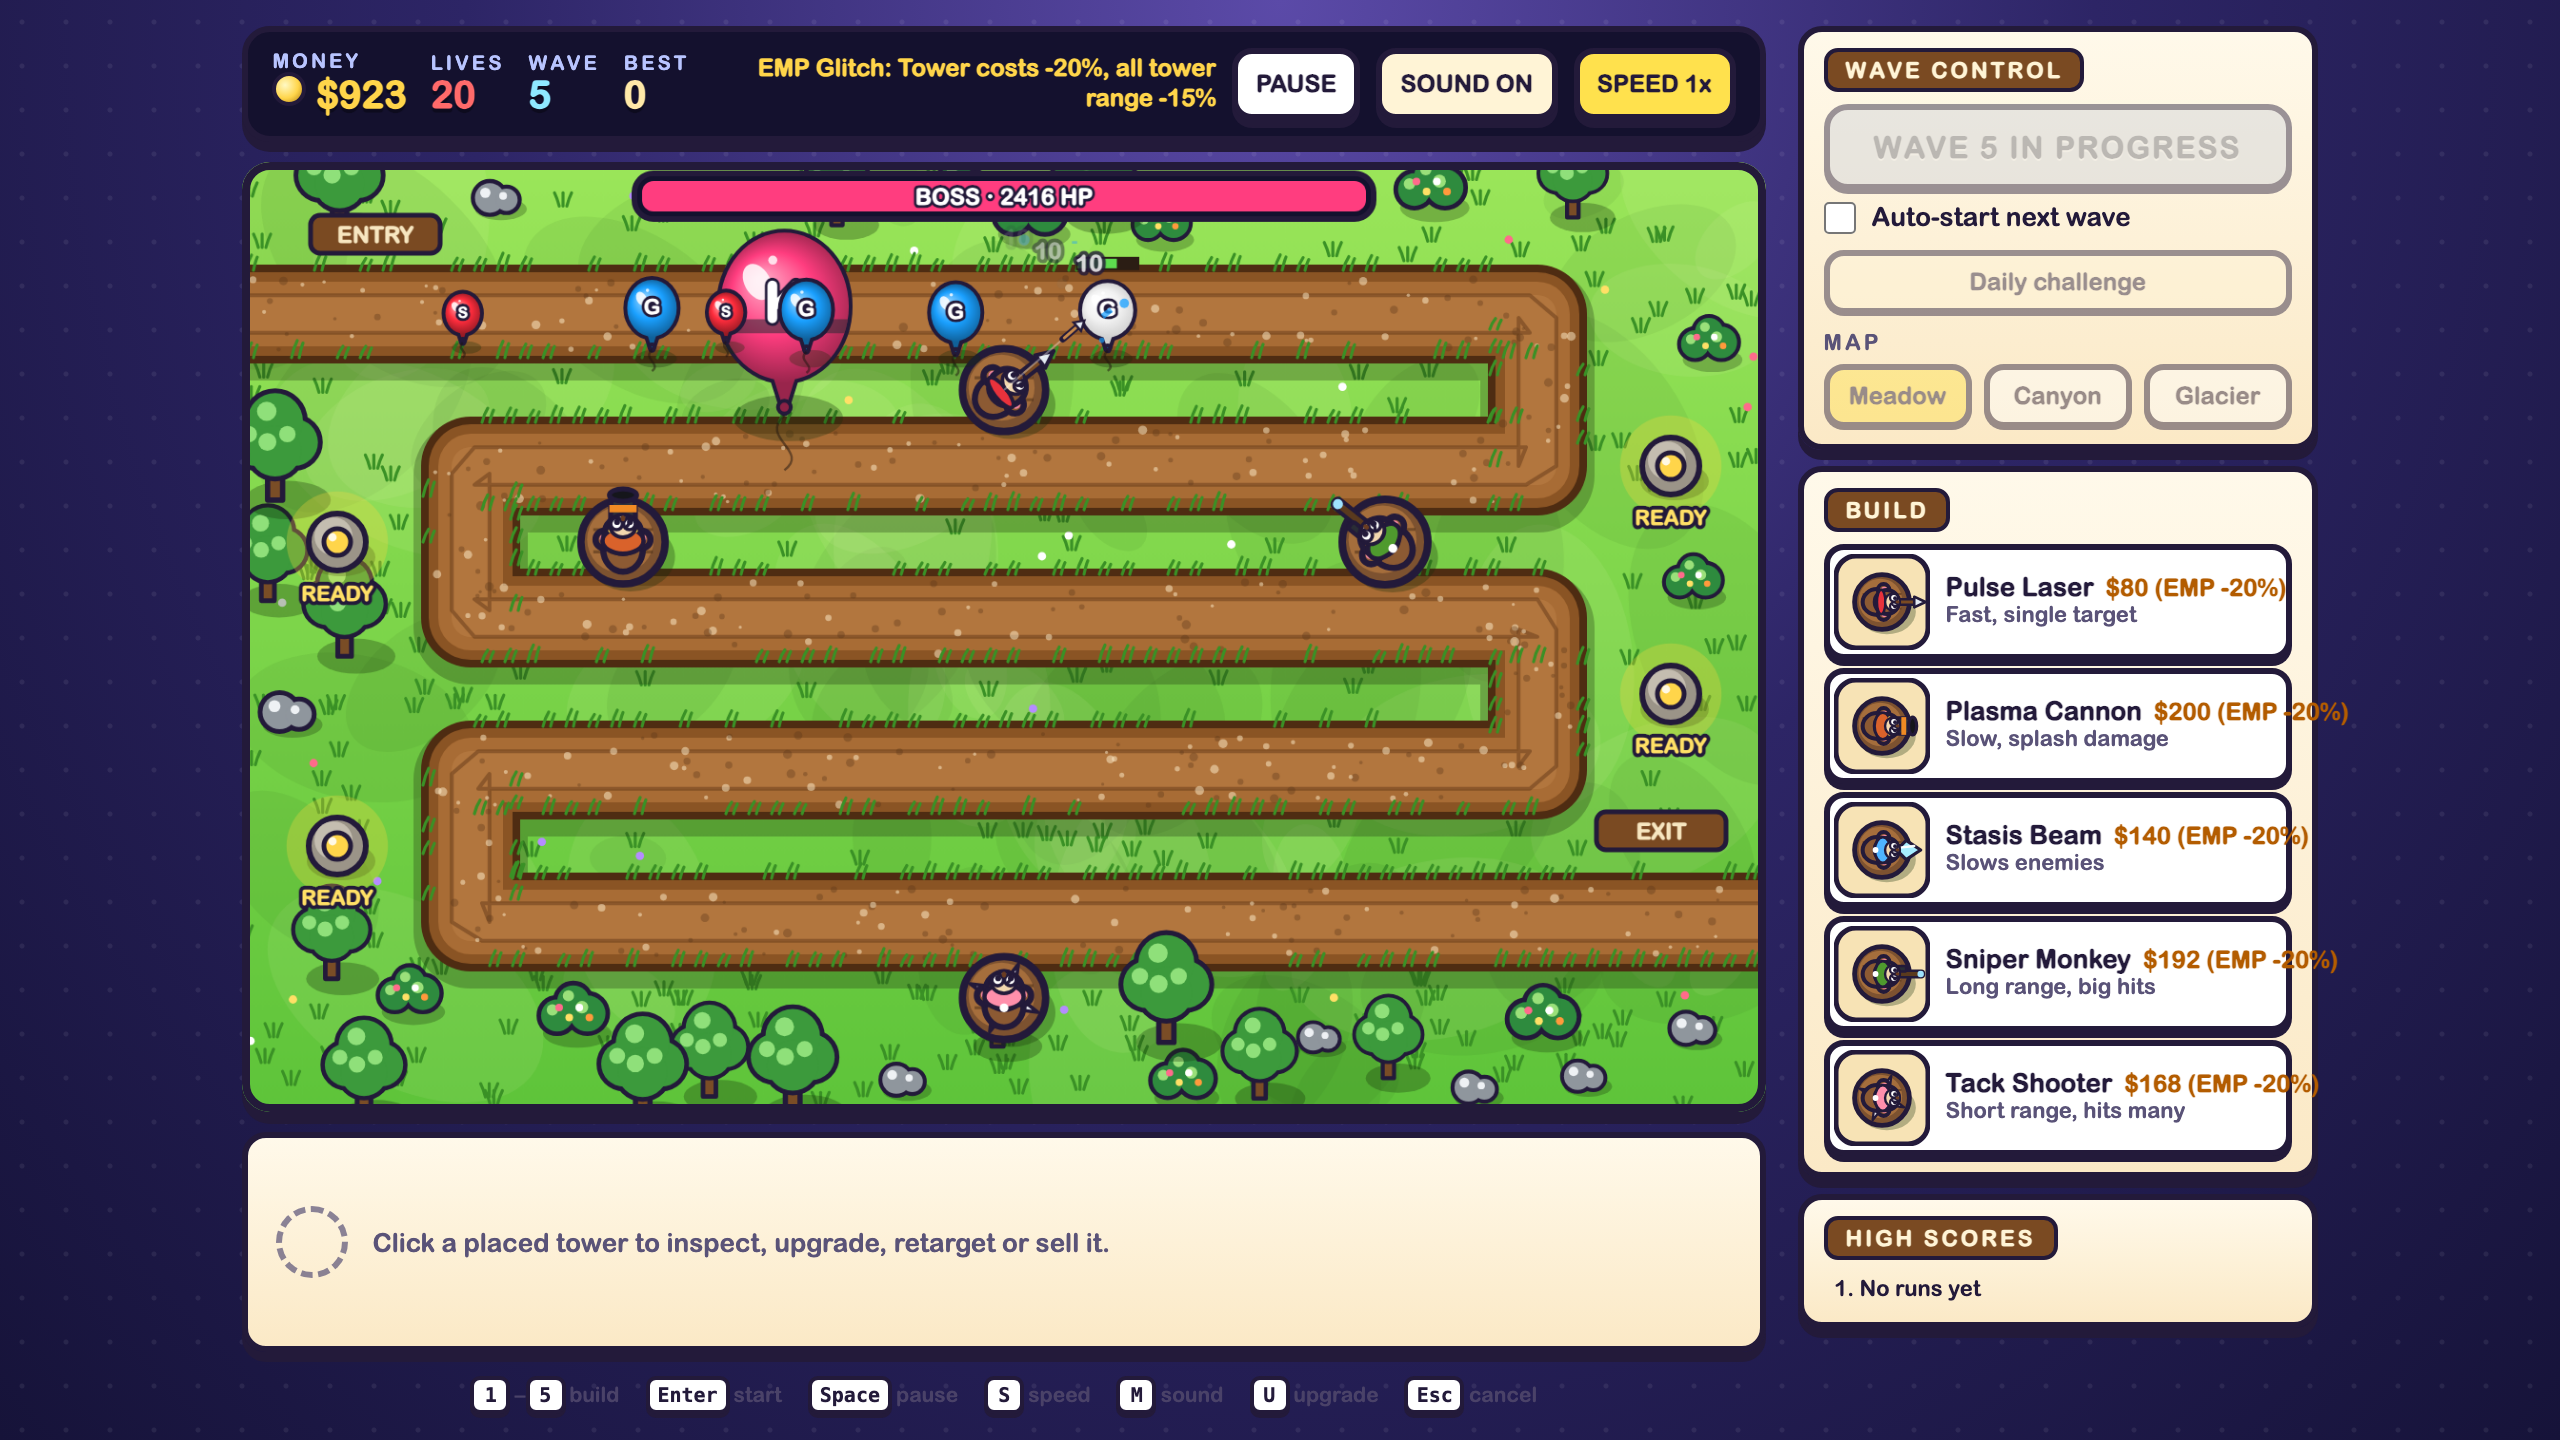
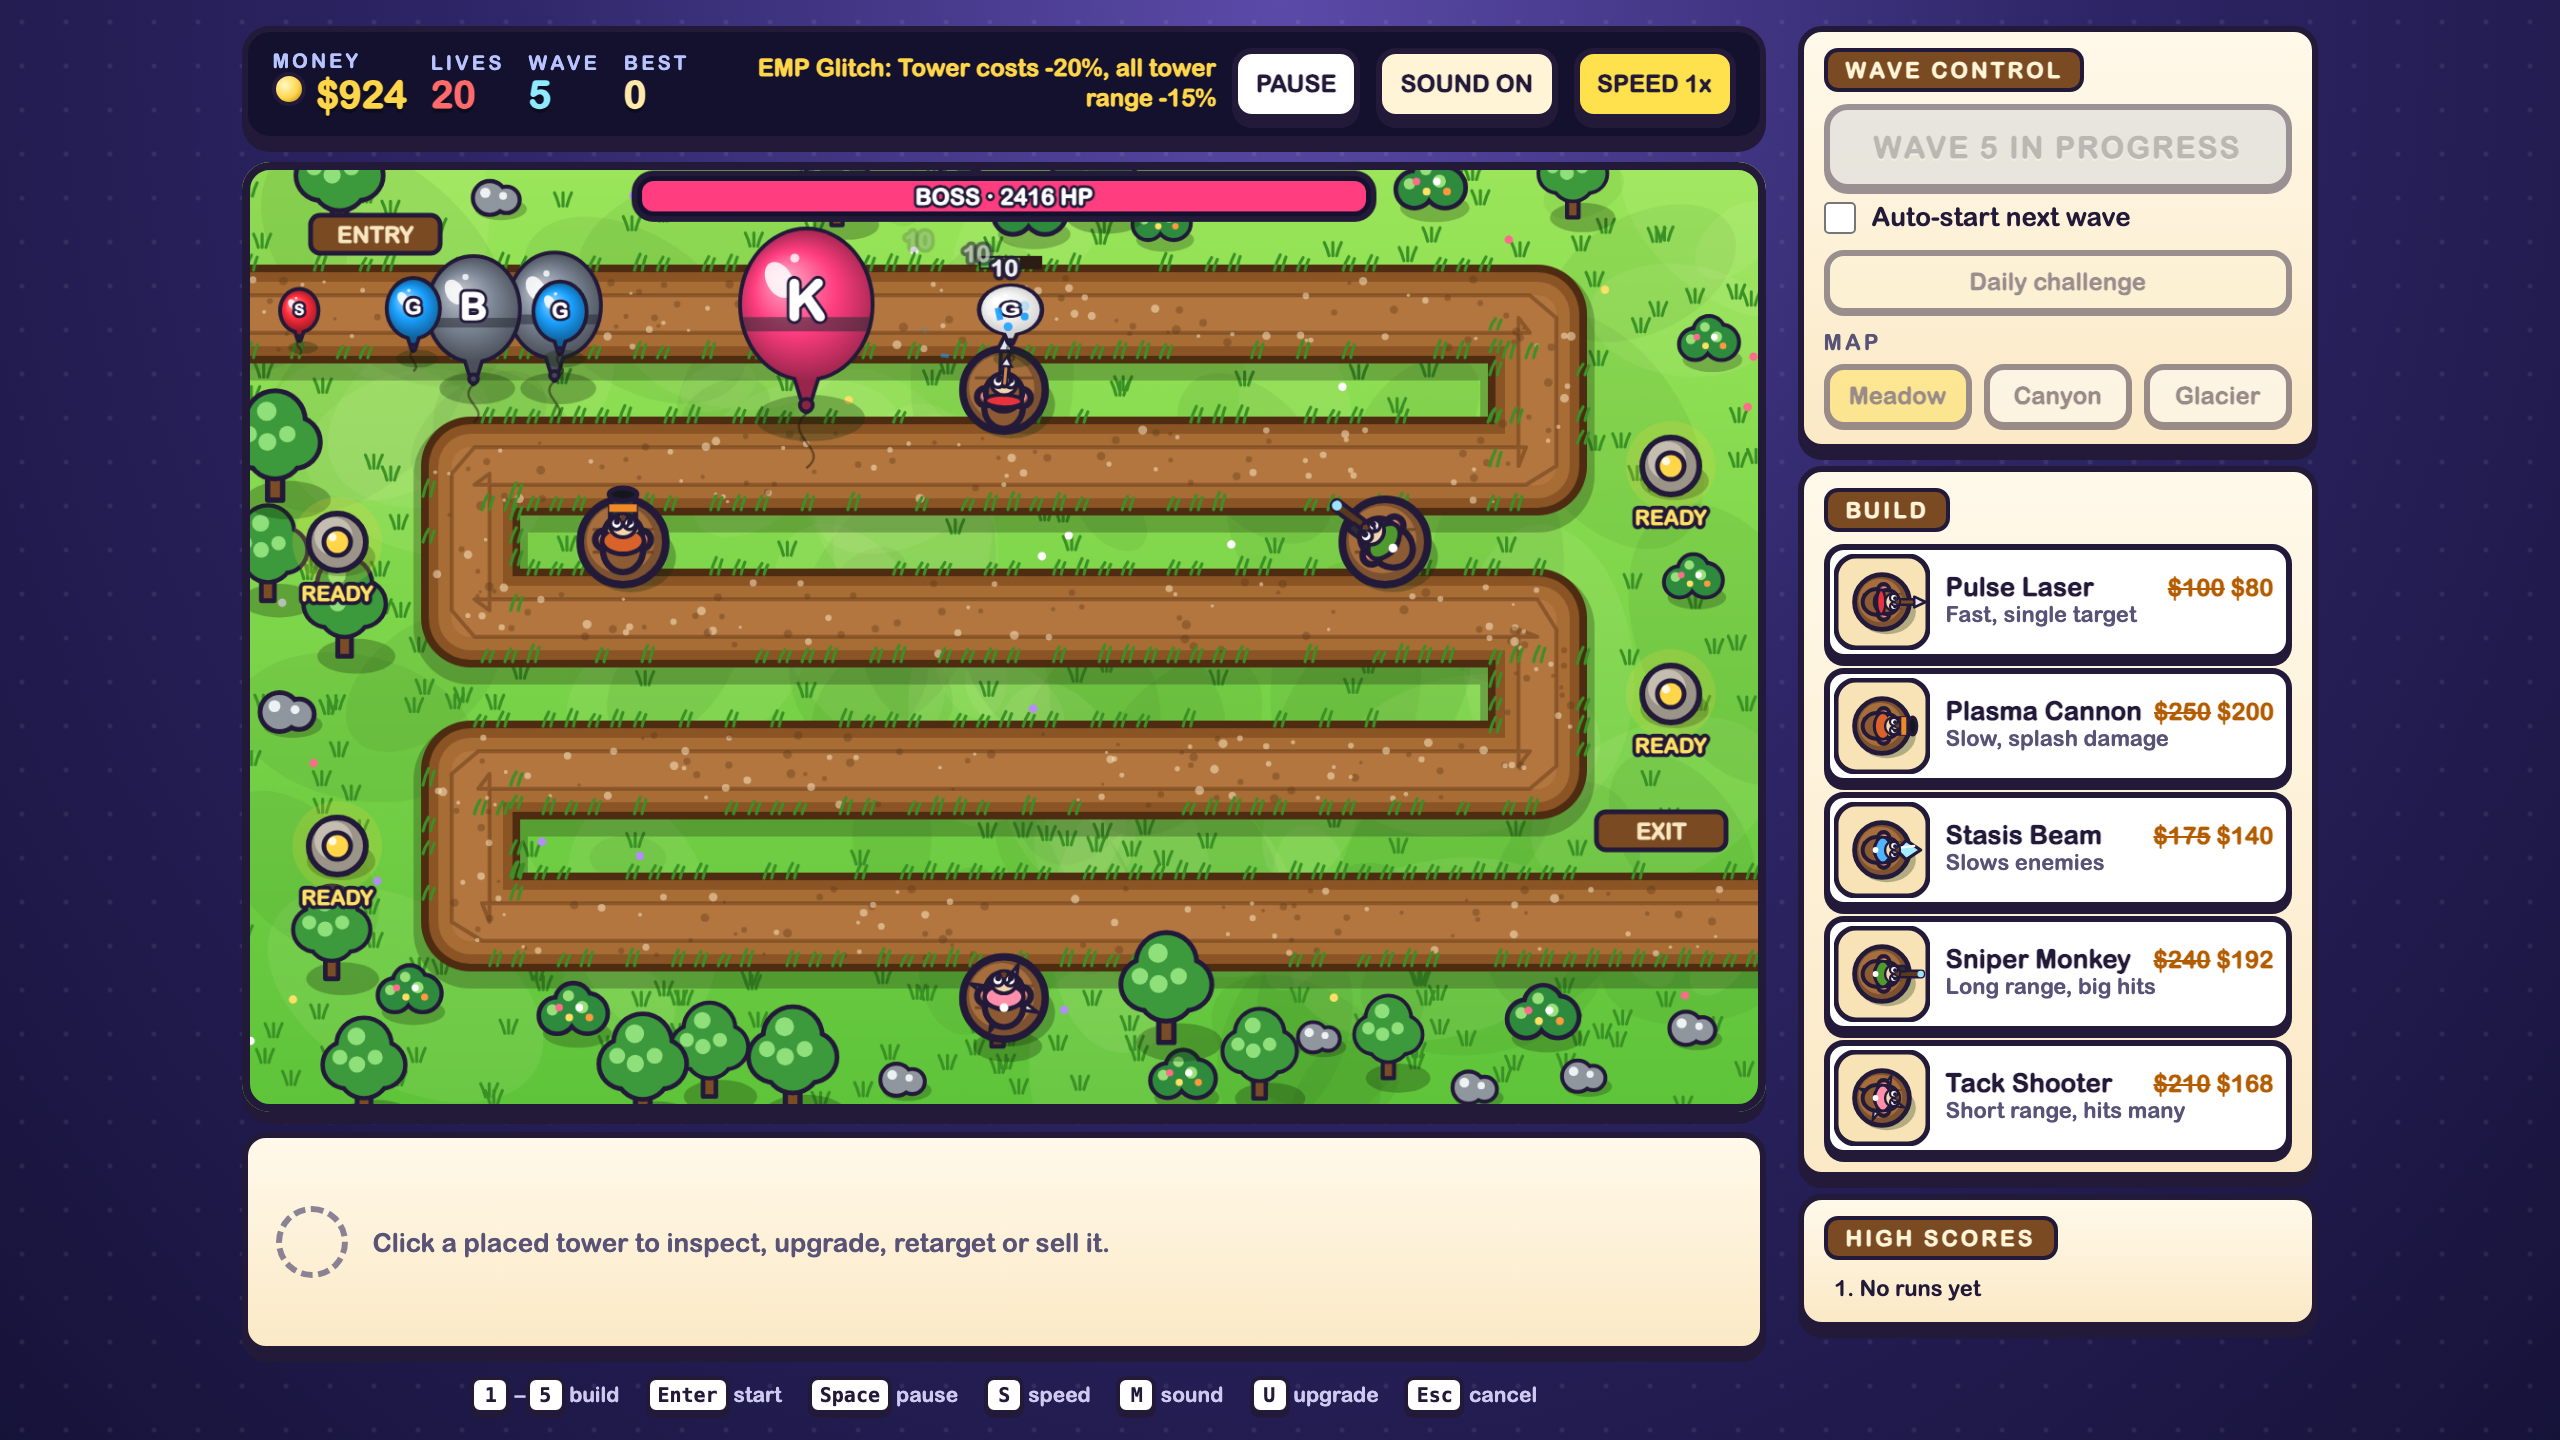
Show EMP discount as a struck-through price so labels fit their cards
Also retake the README screenshot during an EMP wave.

diff --git a/game.js b/game.js
@@ -2379,7 +2379,14 @@ function refreshUI() {
   for (const type of Object.keys(shopCards)) {
     const sc = shopCards[type];
     const c = towerCost(type);
-    setText(sc.cost, '$' + c + (evId() === 'emp' ? ' (EMP -20%)' : ''));
+    // During EMP the original price is struck through beside the discounted one, so the label stays short.
+    const emp = evId() === 'emp';
+    const base = CFG.TOWER[type].cost;
+    const key = emp ? base + '>' + c : String(c);
+    if (sc.cost.dataset.k !== key) {
+      sc.cost.dataset.k = key;
+      sc.cost.innerHTML = emp ? '<s>$' + base + '</s> $' + c : '$' + c;
+    }
     sc.card.classList.toggle('sel', S.placing === type);
     sc.card.classList.toggle('poor', S.money < c);
   }
